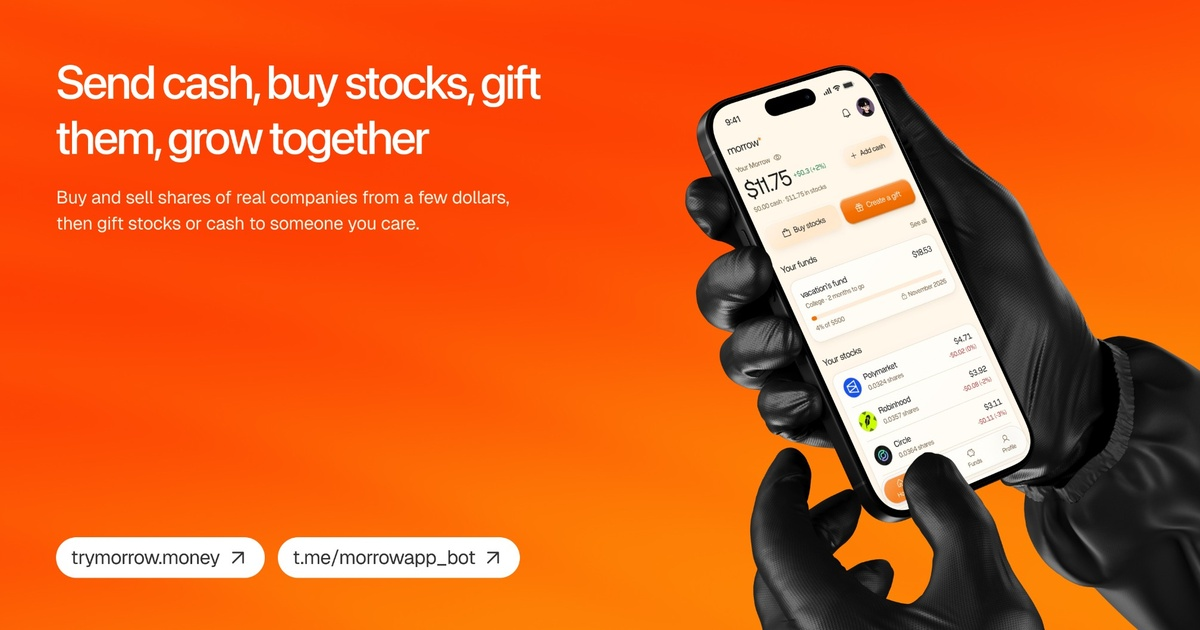
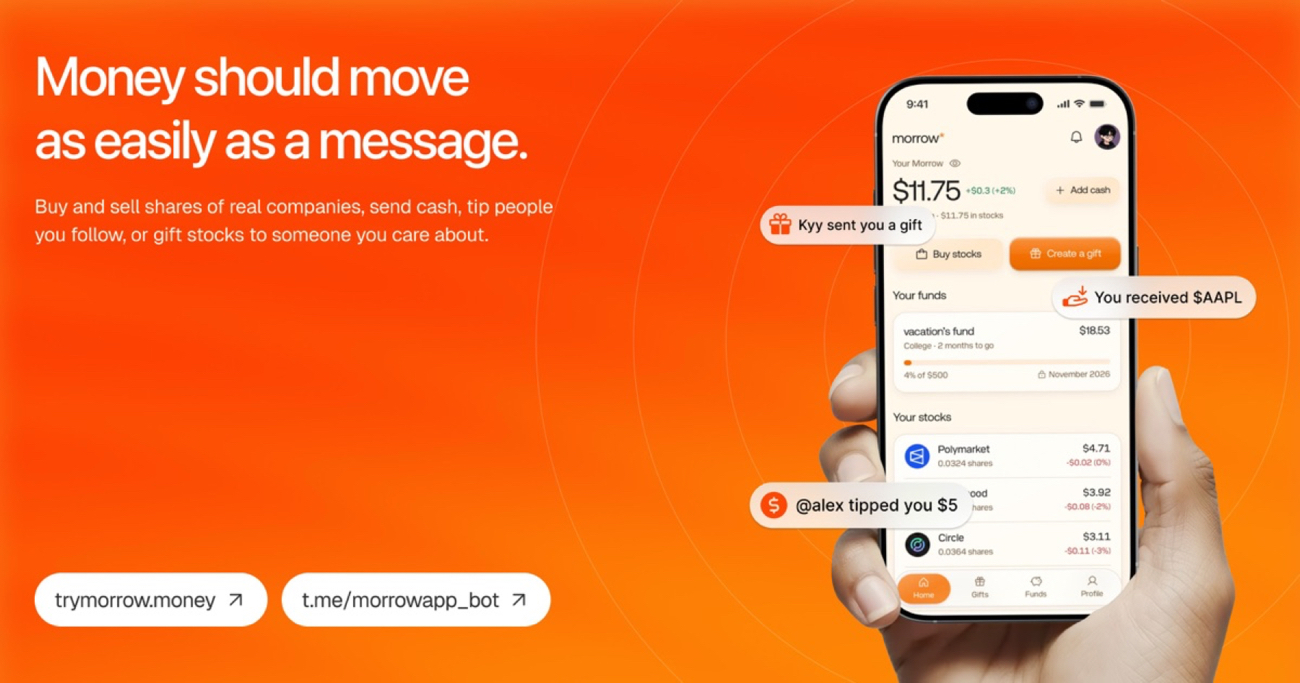
chore: refresh social preview metadata

diff --git a/apps/landing/src/routes/+page.svelte b/apps/landing/src/routes/+page.svelte
@@ -5,7 +5,7 @@ import { siteUrl } from '$lib/site'
 
 const title = 'Morrow — Money should move like a message'
 const description =
-  'Buy and sell shares of real companies from a few dollars, gift stocks or cash, tip from X, start a fund for someone’s future, and earn on cash you have not spent yet. On your home screen or inside Telegram, with nothing to download.'
+  'Buy and sell shares from a few dollars, send cash, tip people you follow, or gift stocks to someone you care about—all from Morrow.'
 const url = new URL('/', siteUrl).href
 const imageUrl = new URL('/og-image.jpg', siteUrl).href
 const structuredData = JSON.stringify({

diff --git a/apps/landing/src/lib/components/seo-head.svelte b/apps/landing/src/lib/components/seo-head.svelte
@@ -60,8 +60,8 @@ const jsonLd = $derived(
   <meta property="og:image:secure_url" content={imageUrl} />
   <meta property="og:image:type" content="image/jpeg" />
   <meta property="og:image:alt" content={imageAlt} />
-  <meta property="og:image:width" content="1200" />
-  <meta property="og:image:height" content="630" />
+  <meta property="og:image:width" content="1300" />
+  <meta property="og:image:height" content="683" />
   <meta name="twitter:card" content="summary_large_image" />
   <meta name="twitter:site" content="@trymorrow" />
   <meta name="twitter:creator" content="@trymorrow" />
